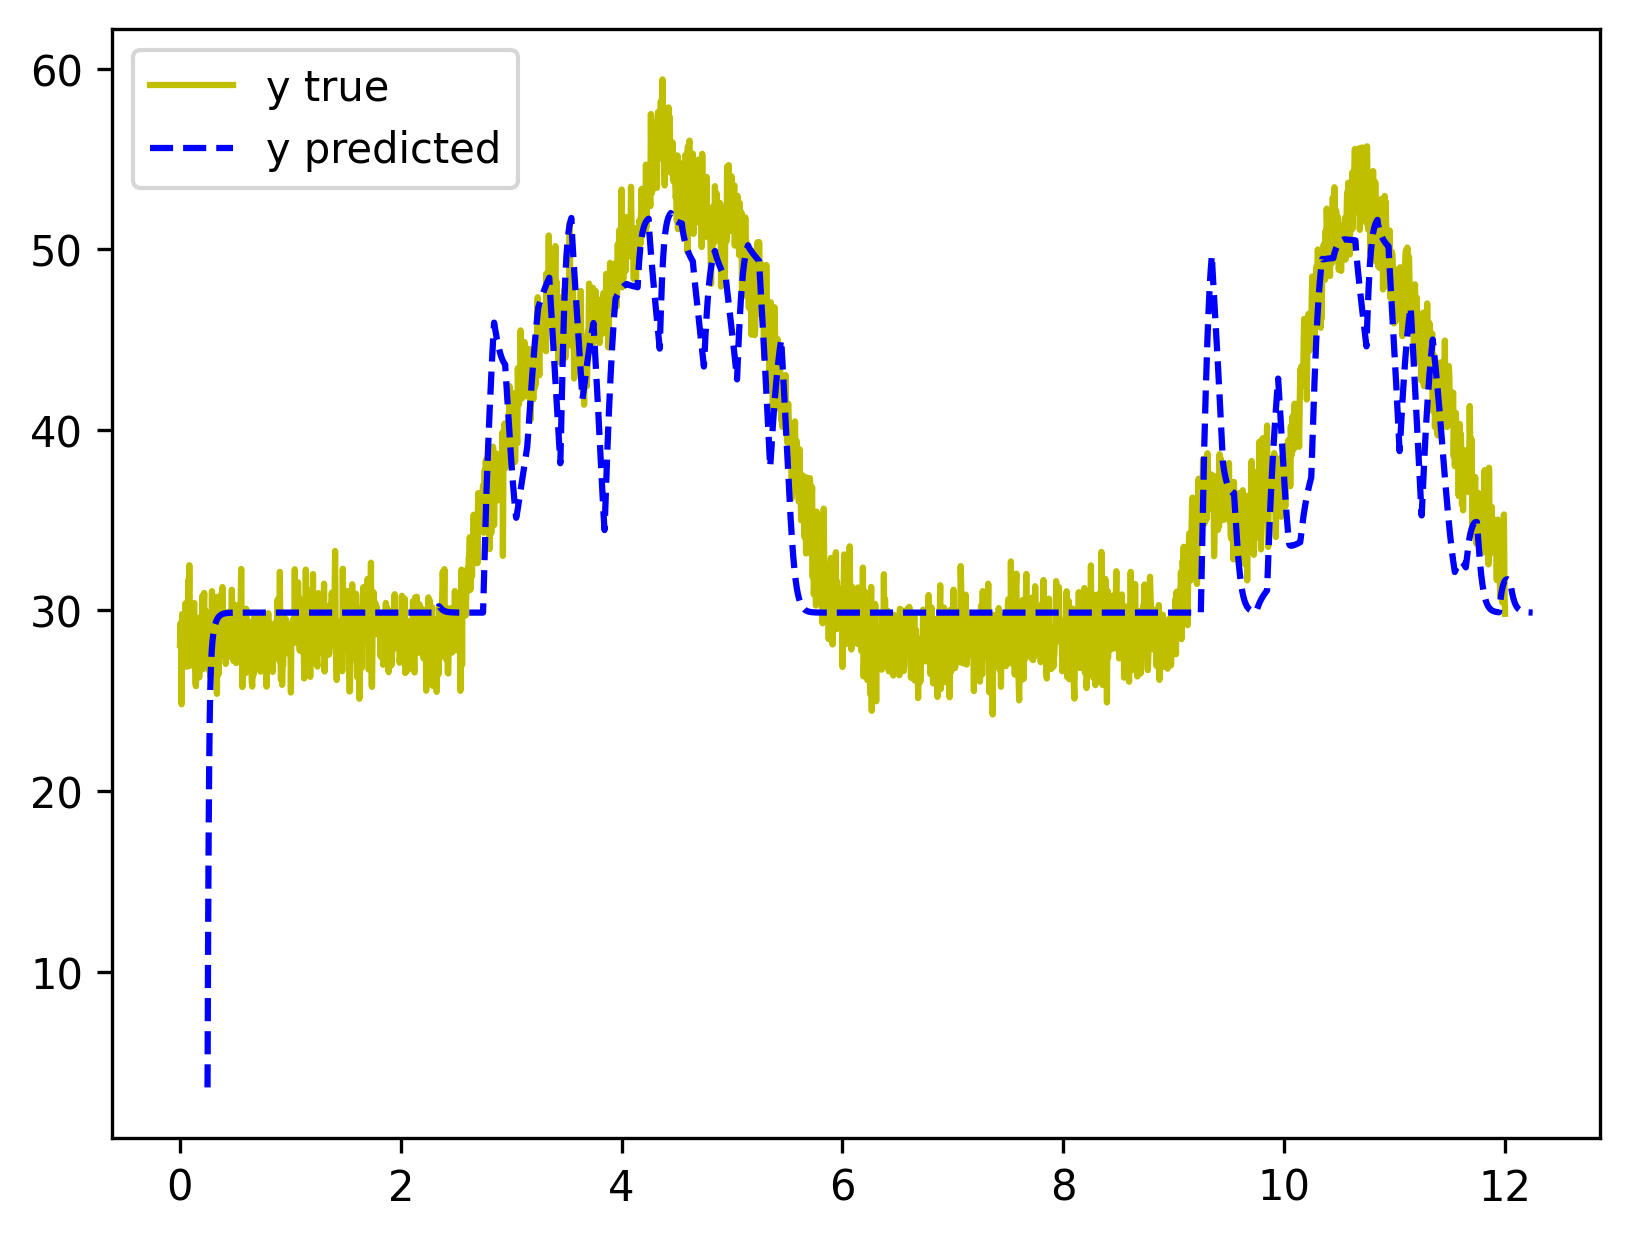
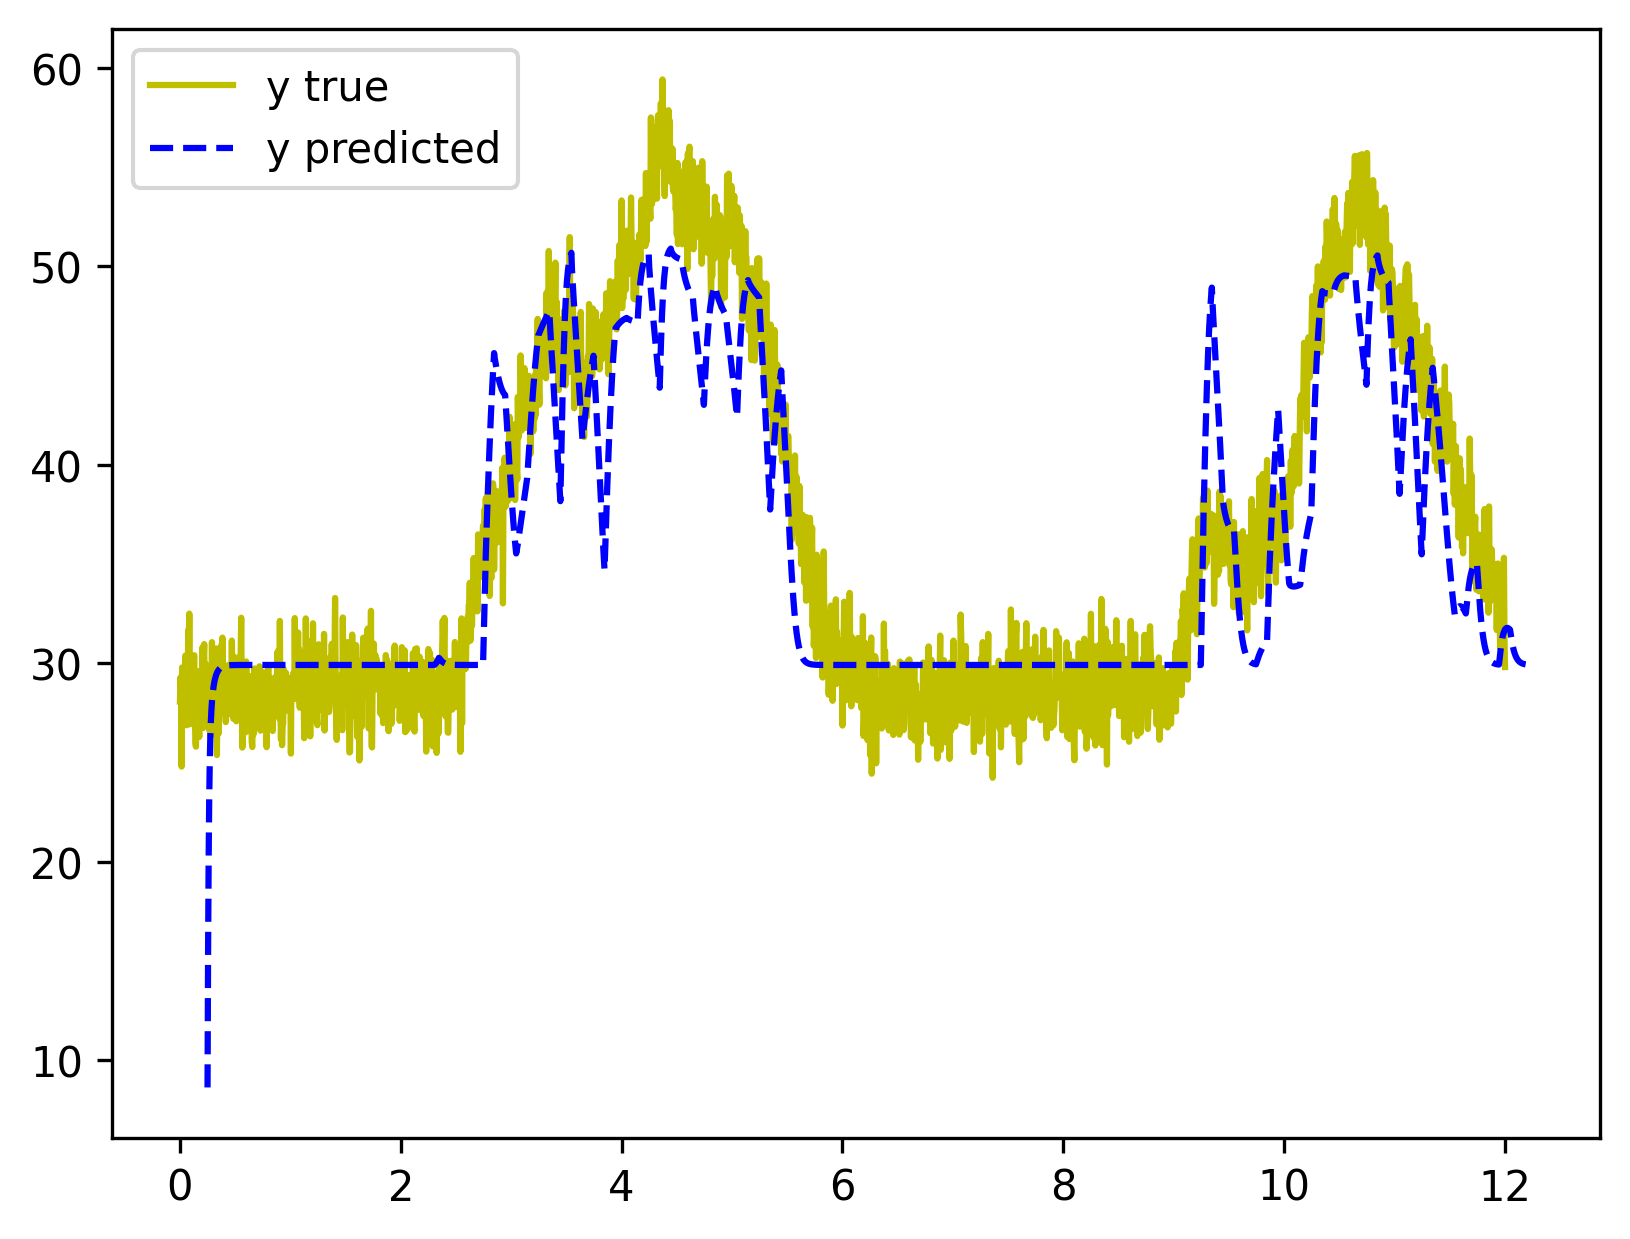
new: re-organnized the files path and starting to train real data

diff --git a/train_experiment_csv/scripts/actuator_lstm.py b/train_experiment_csv/scripts/actuator_lstm.py
@@ -9,7 +9,8 @@ from matplotlib import pyplot as plt
 from typing import Tuple, Optional  # noqa: F401
 
 
-BASE_PATH = os.path.dirname(os.path.abspath(__file__))
+# BASE_PATH = os.path.dirname(os.path.abspath(__file__))
+BASE_PATH  = os.getcwd()
 
 """ To do list
 晚点把.csv的数据步长改为0.005s
@@ -31,7 +32,7 @@ class Config:
         self.out_dim = 1
         self.act = "softsign"
         self.dt = 0.005
-        self.iterations = 30000
+        self.iterations = 3000  # 30000
         self.hidden_size = 50
         self.linear_units = 8
         self.input_scale = 1.5  # turbojet fuel flow(W(kg/s))
@@ -46,7 +47,7 @@ def load_data(data_path):
         return None, 0
 
     num_actuators = sum(1 for col in data.columns if col.startswith("w_f"))
-    columns = ["w_f", "F", "N1", "N2", "P3", "T5"]
+    columns = ["w_f", "F", "N1"]
 
     data_dict = {"Time": []}
     for col in columns:
@@ -224,55 +225,52 @@ def train_actuator_network(train_x: None, train_y: None,
 
     # print total loss
     print(f"Finished Training. Final Loss: {loss.item():.6f}")
-    
+
     export_network(model, actuator_network_path, config)
 
     return model, hidden_prev
 
 
 def main():
-# # 训练过程
-parser = argparse.ArgumentParser()
-parser.add_argument("--data", type=str, required=True, help="Path of data files")
-parser.add_argument("--output", type=str, required=True, help="Path to save or load the actuator network model")
-args = parser.parse_args()
-data_path = os.path.join(BASE_PATH, args.data)
-output_path = os.path.join(BASE_PATH, args.output)
-current_script_name = os.path.splitext(os.path.basename(__file__))[0]
-policy_path = os.path.join(output_path, f"{current_script_name}_net.pt")
-figure_path = os.path.join(output_path, f"{current_script_name}_figure.png")
-config = Config()
+    # # 训练过程
+    parser = argparse.ArgumentParser()
+    parser.add_argument("--data", type=str, required=False,
+                        default="train_experiment_csv/data/fly_robot_real_300B459_train.csv", help="Path of data files for train")
+    parser.add_argument("--output", type=str, required=False,
+                        default="train_experiment_csv/export", help="Path to save or load the actuator network model")
+    parser.add_argument("--val_data", type=str, required=False,
+                        default="train_experiment_csv/data/fly_robot_real_300B459_val.csv", help="Path of data files for validation")
+    args = parser.parse_args()
+    data_path = os.path.join(BASE_PATH, args.data)
+    output_path = os.path.join(BASE_PATH, args.output)
+    val_data_path = os.path.join(BASE_PATH, args.val_data)
+    current_script_name = os.path.splitext(os.path.basename(__file__))[0]
+    policy_path = os.path.join(output_path, f"{current_script_name}_net.pt")
+    figure_path = os.path.join(output_path, f"{current_script_name}_figure.png")
+    config = Config()
 
-data_dict, num_jets = load_data(data_path)
+    data_dict, _ = load_data(data_path)
+    val_data_dict, _ = load_data(val_data_path)
 
-if config.using_real_data:
     # xs = torch.tensor(data_dict["w_f"][:, 0:1], dtype=torch.float)/config.input_scale
     # ys = torch.tensor(data_dict["F"][:, 0:1], dtype=torch.float)/config.output_scale
-    xs = torch.tensor(data_dict["w_f"][:, 0:1], dtype=torch.float)
-    ys = torch.tensor(data_dict["F"][:, 0:1], dtype=torch.float)
-    Time = torch.tensor(data_dict["Time"][:, 0:1], dtype=torch.float)
+    xs = torch.tensor(data_dict["w_f"], dtype=torch.float)
+    ys = torch.tensor(data_dict["F"], dtype=torch.float)
+    Time = torch.tensor(data_dict["Time"], dtype=torch.float)
 
     num_data = xs.shape[0]
     num_train = int(num_data * 0.8)
 
-    # 训练数据
-    train_x = xs[:num_train]
-    train_y = ys[:num_train]
-
-    # 验证数据
-    val_x = xs[num_train:].unsqueeze(0)
-    val_y = ys[num_train:].unsqueeze(0)
     time_steps = Time[num_train:]-Time[num_train]
 
-    model, hidden_prev = train_actuator_network(train_x=train_x, train_y=train_y,
-                                                actuator_network_path=policy_path, config=config)
-else:
-    model, hidden_prev = train_actuator_network(train_x=torch.tensor([0]), train_y=0,
+    model, hidden_prev = train_actuator_network(train_x=xs, train_y=ys,
                                                 actuator_network_path=policy_path, config=config)
 
-
-# Validation
-if config.using_real_data:
+    # Validation
+    val_x = torch.tensor(val_data_dict["w_f"][:, 0:1], dtype=torch.float).unsqueeze(0)
+    val_y = torch.tensor(val_data_dict["F"][:, 0:1], dtype=torch.float).unsqueeze(0)
+    # val_x = xs[num_train:].unsqueeze(0)
+    # val_y = ys[num_train:].unsqueeze(0)
     model.cpu()
 
     h_0_val = torch.zeros(config.num_layers, config.batch_size, config.hidden_size).cpu()
@@ -295,47 +293,11 @@ if config.using_real_data:
 
     plt.plot(time_steps, val_y.ravel(), c='y', label='y true')  # y值
     plt.plot(time_steps+config.num_time_steps*config.dt, predictions,
-             c='b', label='y predicted', linestyle='--')  # y的预测值
+                c='b', label='y predicted', linestyle='--')  # y的预测值
     plt.legend()
     plt.savefig(figure_path, dpi=300, bbox_inches='tight')
     plt.show()
 
-else:
-    # 先用同样的方式生成一组数据x,y
-    start = np.random.randint(3, size=1)[0]
-    time_steps = np.linspace(start, start + 10, config.num_time_steps)
-    data = np.sin(time_steps)
-    data = data.reshape(config.num_time_steps, 1)
-    val_x = torch.tensor(data[:-1]).float().view(1, config.num_time_steps - 1, 1)
-    val_y = torch.tensor(data[1:]).float().view(1, config.num_time_steps - 1, 1)
 
-    model.cpu()
-
-    h_0_val = torch.zeros(config.num_layers, config.batch_size, config.hidden_size).cpu()
-    c_0_val = torch.zeros(config.num_layers, config.batch_size, config.hidden_size).cpu()
-    hidden_prev = (h_0_val, c_0_val)
-    predictions = []
-
-    input = val_x[:, 0, :]           # 取seq_len里面第0号数据
-    input = input.view(1, 1, 1)  # input：[1,1,1]
-    for _ in range(val_x.shape[1]):  # 迭代seq_len次
-        pred, hidden_prev = model(input, hidden_prev)
-        # 预测出的(下一个点的)序列pred当成输入(或者直接写成input, hidden_prev = model(input, hidden_prev))
-        input = pred
-        predictions.append(pred.detach().numpy().ravel()[0])
-
-    val_x = val_x.data.numpy()
-    val_y = val_y.data.numpy()
-    plt.plot(time_steps[:-1], val_x.ravel(), label='x values (line)')
-
-    plt.scatter(time_steps[:-1], val_x.ravel(), c='r', label='x (start)')  # x值
-    plt.scatter(time_steps[1:], val_y.ravel(), c='y', label='y true')  # y值
-    plt.plot(time_steps[1:], predictions, c='b', label='y predicted', linestyle='--')  # y的预测值
-    plt.legend()
-    plt.grid(True)
-    plt.savefig(figure_path, dpi=300, bbox_inches='tight')
-    plt.show()
-
-
-# if __name__ == "__main__":
-#     main()
+if __name__ == "__main__":
+    main()

diff --git a/actuator_lstm_v2_1.py b/actuator_lstm_v2_1.py
@@ -8,7 +8,7 @@ import torch.optim as optim
 from matplotlib import pyplot as plt
 from typing import Tuple, Optional  # noqa: F401
 import random  # noqa: F401
-import onnxruntime as ort
+# import onnxruntime as ort
 
 BASE_PATH = os.path.dirname(os.path.abspath(__file__))
 
@@ -27,7 +27,7 @@ class Config:
         self.out_dim = 1
         self.act = "softsign"
         self.dt = 0.005
-        self.iterations = 30000
+        self.iterations = 3000     # 30000
         self.hidden_size = 50
         self.linear_units = 8
         self.input_scale = 1.5  # turbojet fuel flow(W(kg/s))
@@ -142,37 +142,37 @@ def export_network(model: nn.Module, actuator_network_path: str, config: Config)
     model_scripted.save(actuator_network_path)
     print(f"Model successfully saved to {actuator_network_path}")
 
-    # --- 2. 导出为 ONNX ---
-    print("Exporting to ONNX...")
-    # 为了获得一个干净的、用于导出的模型实例，我们重新创建一个
-    model_for_export = LSTM_Net(config)
-    model_for_export.load_state_dict(model.state_dict())    # 加载训练好的权重
-    model_for_export.eval()
+    # # --- 2. 导出为 ONNX ---
+    # print("Exporting to ONNX...")
+    # # 为了获得一个干净的、用于导出的模型实例，我们重新创建一个
+    # model_for_export = LSTM_Net(config)
+    # model_for_export.load_state_dict(model.state_dict())    # 加载训练好的权重
+    # model_for_export.eval()
 
-    model_for_export.to(device_for_export)
+    # model_for_export.to(device_for_export)
 
-    onnx_path = actuator_network_path.replace('.pt', '.onnx')
+    # onnx_path = actuator_network_path.replace('.pt', '.onnx')
 
-    # 创建符合模型 forward 方法的虚拟输入 (batch_size=1, seq_len=1)
-    dummy_x = torch.randn(1, 1, config.in_dim, device=device_for_export)
+    # # 创建符合模型 forward 方法的虚拟输入 (batch_size=1, seq_len=1)
+    # dummy_x = torch.randn(1, 1, config.in_dim, device=device_for_export)
 
-    # 定义输入输出节点的名称
-    input_names = ["input_x"]
-    output_names = ["output_pred"]
+    # # 定义输入输出节点的名称
+    # input_names = ["input_x"]
+    # output_names = ["output_pred"]
 
-    # 导出模型
-    torch.onnx.export(model_for_export,
-                      dummy_x,  # 虚拟输入只有一个
-                      onnx_path,
-                      verbose=False,
-                      input_names=input_names,
-                      output_names=output_names,
-                      opset_version=11,
-                    #   dynamic_axes={'input_x': {0: 'batch_size'},
-                    #                 'output_pred': {0: 'batch_size'}}
-                      )
+    # # 导出模型
+    # torch.onnx.export(model_for_export,
+    #                   dummy_x,  # 虚拟输入只有一个
+    #                   onnx_path,
+    #                   verbose=False,
+    #                   input_names=input_names,
+    #                   output_names=output_names,
+    #                   opset_version=11,
+    #                 #   dynamic_axes={'input_x': {0: 'batch_size'},
+    #                 #                 'output_pred': {0: 'batch_size'}}
+    #                   )
 
-    print(f"Model successfully exported to {onnx_path}")
+    # print(f"Model successfully exported to {onnx_path}")
 
 
 def train_actuator_network(train_x: None, train_y: None,
